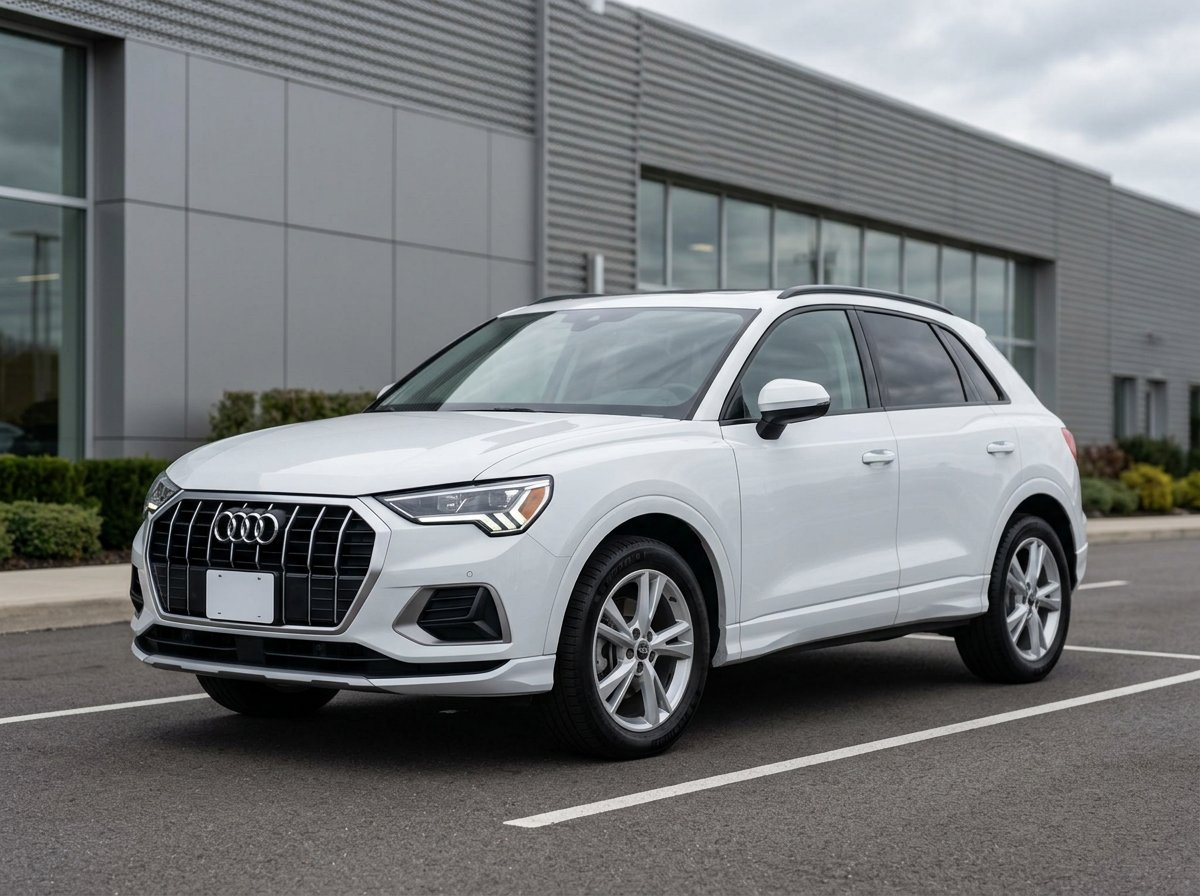
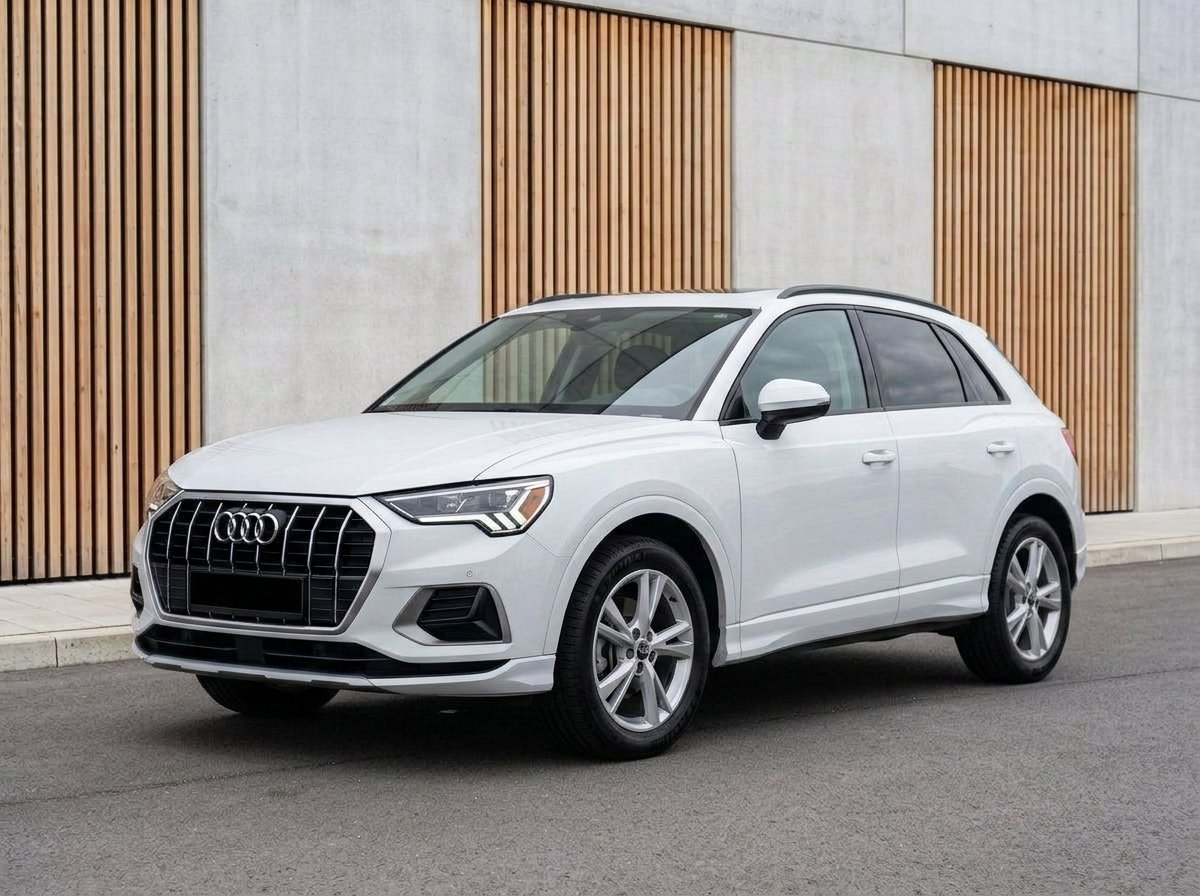
Lleva las fotos web de coches y el hero a la ubicación de la empresa
- public/images/coches/golf-1, 320d-1, chr-1, q3-1 y tucson-1: el fondo
  (lote industrial, concesionario, nave o aparcamiento) pasa a la fachada de
  hormigón y madera y al asfalto de la ubicación. El coche, su color y su
  orientación no cambian; las matrículas quedan sin caracteres.
- public/images/hero.jpg: Porsche Cayenne en la misma ubicación, a la derecha
  para dejar libre el titular, recortado a 1584×672.
- Las ediciones son generadas con IA: conviene comprobar que coinciden con
  los coches reales antes de publicarlas.
- Borrador del Golf VIII: las notas indican que cilindros, CVF, etiqueta DGT,
  PVP de nuevo y segmento vienen del catálogo y no del anuncio.

diff --git a/erp/src/data/vehicleImportDraftData.js b/erp/src/data/vehicleImportDraftData.js
@@ -430,7 +430,7 @@ export const PENDING_VEHICLE_IMPORT_DATA = [
       inspectionChecks: {},
       sale: null,
       imageUrl: '',
-      notes: 'BORRADOR DE PROSPECCIÓN: el coche aún no se ha comprado. Anuncio del concesionario Pllana Automobile (Isernhagen, Hannover) por 12.500 €, sin indicación de negociación; mobile.de lo marca como «Buen precio». Declarado: 2 propietarios, 122.500 km, mantenimiento completo, TÜV y AU nuevos, climatizador, faros LED y sensores de aparcamiento delante y detrás. Compra a profesional UE (pro_eu_vat): sin ITP; comprando como empresa la operación es una AIB autoliquidada y deducida en el 303/349 (caja 0 €), y como particular el ERP carga el 21 % con el Modelo 309 (2.625 €).\n\nEl CO₂ anunciado (104 g/km WLTP) y el catálogo KHC (112 g/km) quedan por debajo de 120 g/km. Verificar con el COC, junto con VIN, código de motor, día exacto de primera matriculación, acabado y la conversión a GLP, antes de cerrar impuestos y la etiqueta DGT. En Alemania el catálogo estima 16.298 € para este coche a 2021 y 122.500 km (14.994 € con el descuento de compra), así que el precio anunciado queda por debajo.\n\nLos costes estándar (transporte 750 €, COC 120 €, ITV+ficha 124,05 €, tasa DGT 99,77 €, placas 28 €, gestoría 180 €, preparación 180 €, mantenimiento 150 € y publicidad 30 €) son las tarifas 2026 del ERP y siguen siendo estimaciones hasta recibir factura. Quedan pendientes de estimar viaje, garantía, seguro de stock y otros (0 € no significa gratis). El objetivo de venta de 18.700 € es una estimación: el catálogo da 19.296 € en España para 2021 y 122.500 km y se aplica una rebaja prudente del 3 %.\n\nLas vistas exteriores llevan el fondo homogeneizado con IA (fachada de hormigón y madera, matrícula tapada y sin rótulos del vendedor). Los originales del anuncio están en la carpeta golf gris 2022 y las fotos de interior y maletero no se han alterado. Hay que comprobar que las vistas editadas coinciden con el coche real. La descripción del vendedor se guarda en extracto; el anuncio completo tiene el detalle de equipamiento.',
+      notes: 'BORRADOR DE PROSPECCIÓN: el coche aún no se ha comprado. Anuncio del concesionario Pllana Automobile (Isernhagen, Hannover) por 12.500 €, sin indicación de negociación; mobile.de lo marca como «Buen precio». Declarado: 2 propietarios, 122.500 km, mantenimiento completo, TÜV y AU nuevos, climatizador, faros LED y sensores de aparcamiento delante y detrás. Compra a profesional UE (pro_eu_vat): sin ITP; comprando como empresa la operación es una AIB autoliquidada y deducida en el 303/349 (caja 0 €), y como particular el ERP carga el 21 % con el Modelo 309 (2.625 €).\n\nEl CO₂ anunciado (104 g/km WLTP) y el catálogo KHC (112 g/km) quedan por debajo de 120 g/km. Verificar con el COC, junto con VIN, código de motor, día exacto de primera matriculación, acabado y la conversión a GLP, antes de cerrar impuestos y la etiqueta DGT. Cilindros (3), CVF (7,83), etiqueta DGT (C), PVP de nuevo (34.900 €) y segmento vienen del catálogo KHC, no del anuncio: confirmarlos con el COC y la ficha técnica. En Alemania el catálogo estima 16.298 € para este coche a 2021 y 122.500 km (14.994 € con el descuento de compra), así que el precio anunciado queda por debajo.\n\nLos costes estándar (transporte 750 €, COC 120 €, ITV+ficha 124,05 €, tasa DGT 99,77 €, placas 28 €, gestoría 180 €, preparación 180 €, mantenimiento 150 € y publicidad 30 €) son las tarifas 2026 del ERP y siguen siendo estimaciones hasta recibir factura. Quedan pendientes de estimar viaje, garantía, seguro de stock y otros (0 € no significa gratis). El objetivo de venta de 18.700 € es una estimación: el catálogo da 19.296 € en España para 2021 y 122.500 km y se aplica una rebaja prudente del 3 %.\n\nLas vistas exteriores llevan el fondo homogeneizado con IA (fachada de hormigón y madera, matrícula tapada y sin rótulos del vendedor). Los originales del anuncio están en la carpeta golf gris 2022 y las fotos de interior y maletero no se han alterado. Hay que comprobar que las vistas editadas coinciden con el coche real. La descripción del vendedor se guarda en extracto; el anuncio completo tiene el detalle de equipamiento.',
       sourceListing: null,
       priceTarget: null,
     },
